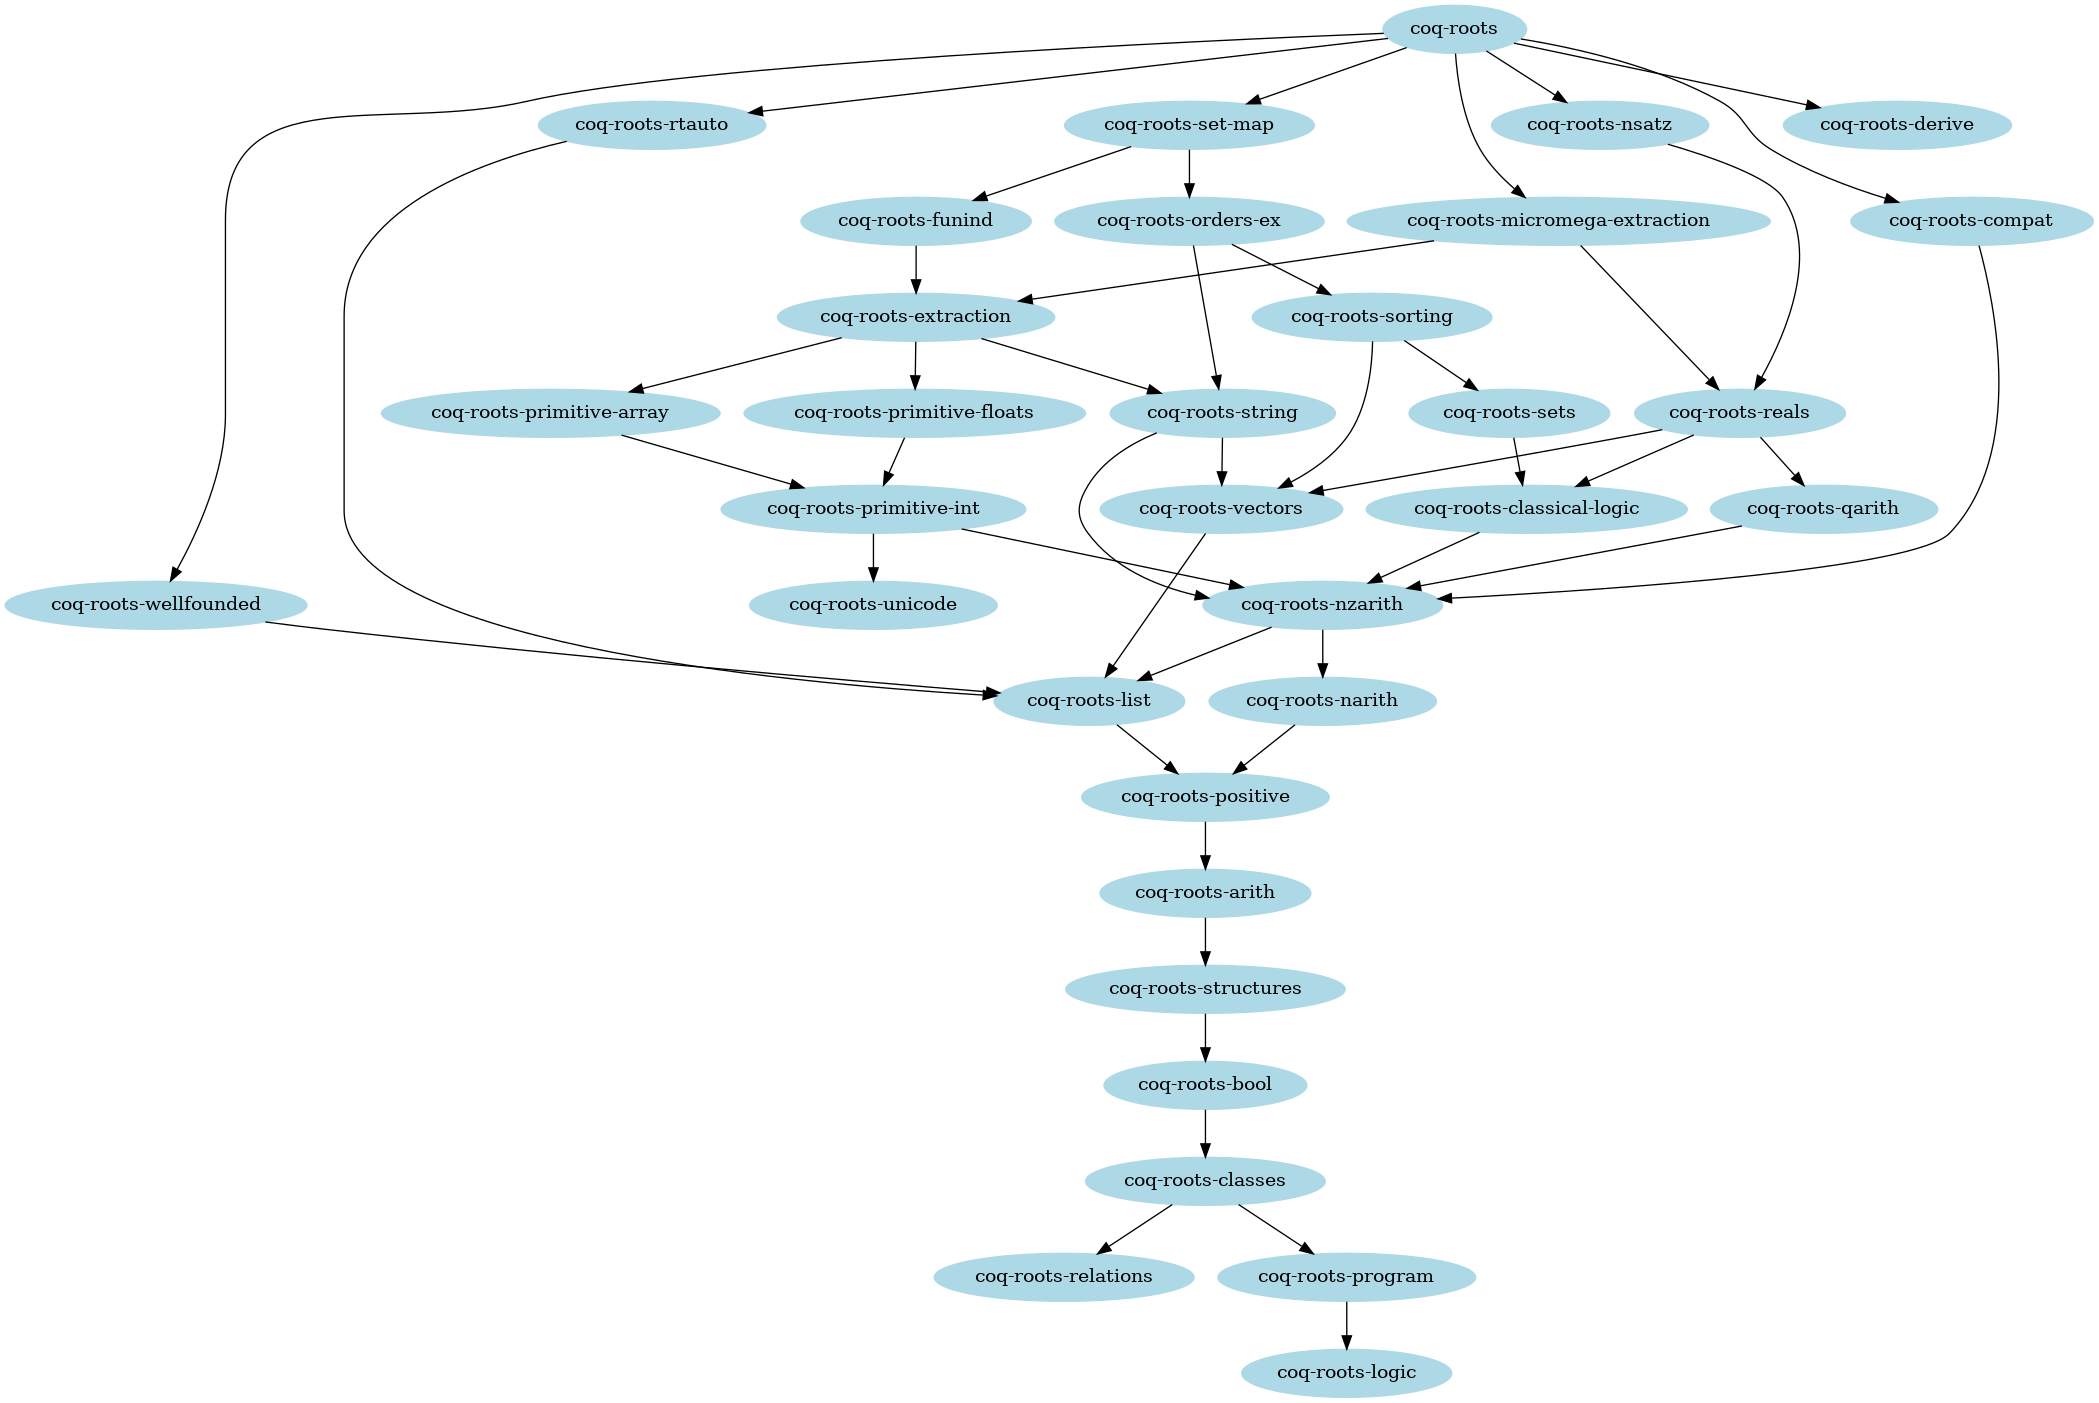
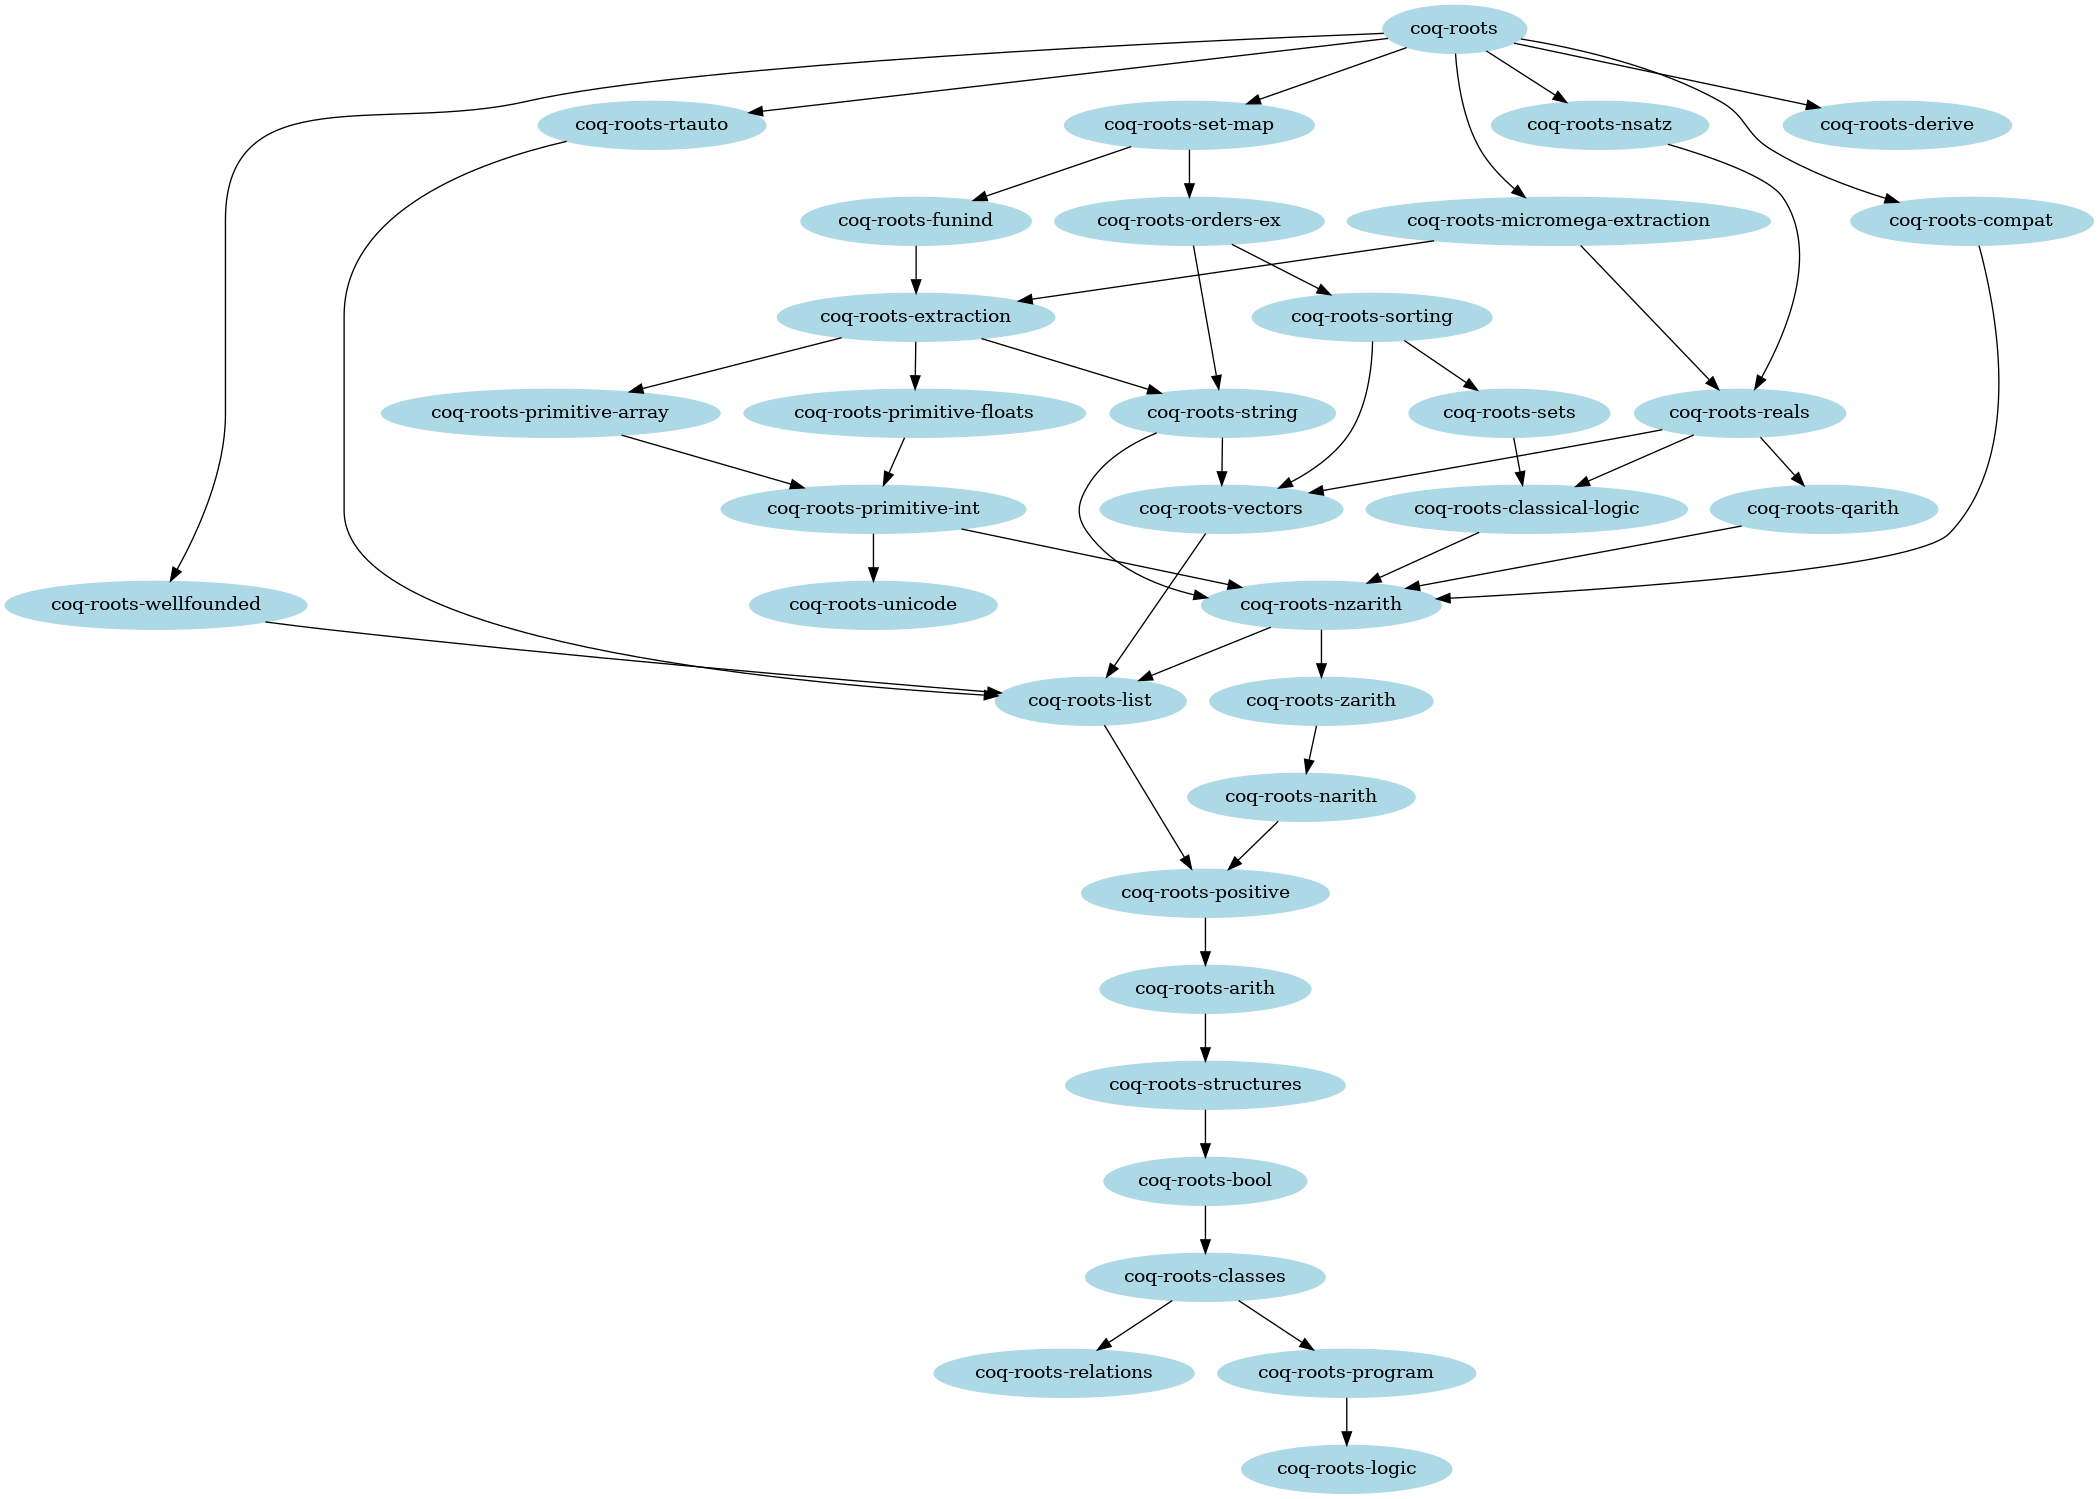
Separate zarith

diff --git a/README.md b/README.md
@@ -35,6 +35,7 @@ install-package` to install it. `package` being one of
 * micromega-extraction
 * nsatz
 * narith
+* zarith
 * nzarith
 * orders-ex
 * positive
